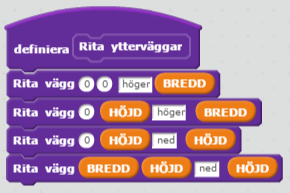
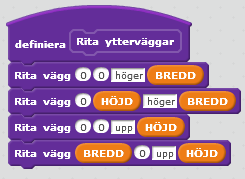
Första kompletta versionen

diff --git a/labyrintgen/README.html b/labyrintgen/README.html
@@ -7,7 +7,7 @@
 <p>En labyrintgenerator kan man ha nytta av i olika spel. Därför är det bra om vi har några få sprajtar som man kan importera med ryggsäcken.</p>
 <p>Så här kan det se ut när vi är klara:</p>
 <p><img src="00-maze-goal.png" alt="Målbild för labyrinten"></p>
-<p>Låter det krångligt? Vi tar ett steg i taget. Jag har formulerat en önskelista som kanske kan hjälpa.</p>
+<p>Låter det krångligt? Vi tar ett steg i taget. Jag har formulerat en önskelista som kanske hjälper.</p>
 <h2 id="-nskan-1-det-g-r-att-v-lja-bredd-och-h-jd-p-labyrinten">Önskan 1. Det går att välja bredd och höjd på labyrinten</h2>
 <p>Den här önskan kan vi uppfylla genom att katten frågar om bredd och höjd. Vi sparar svaren i variablerna <code>BREDD</code> och <code>HÖJD</code>.</p>
 <p>Pröva nu att göra en lösning på egen hand innan du går vidare.</p>
@@ -102,7 +102,7 @@
 <p><img src="04-ritlista-02.png" alt="Steg 1"> </p>
 <h3 id="vi-delar-igen-och-f-r-fler-rektanglar">Vi delar igen och får fler rektanglar</h3>
 <ul>
-<li>Först i ritlistan ligger nu koordinaterna (0,0) och (6,2). De är grönmarkerade ovan</li>
+<li>Först i ritlistan ligger nu koordinaterna (0,0) och (6,2). De var grönmarkerade ovan</li>
 <li>Vi gör på samma sätt som vi gjorde för den stora rektangeln</li>
 <li>Du ser ändringarna i grönt och gult i bilden</li>
 <li>Rektangeln (0, 0) till (6,2) försvann ur ritlistan</li>
@@ -117,7 +117,7 @@
 <h3 id="bara-sm-rektanglar-kvar">Bara små rektanglar kvar</h3>
 <ul>
 <li>Första rektangeln i ritlistan är (0,0) till (6, 1)</li>
-<li>Den rektangeln är för liten för att delas. Vi tar bort den ur ritlistan som nu har tre rektanglar kvar</li>
+<li>Den rektangeln har höjden 1 och kan därför inte delas på höjden. Vi tar bort den ur ritlistan som nu har tre rektanglar kvar</li>
 </ul>
 <p><img src="04-ritlista-05.png" alt="Steg 1"> </p>
 <h3 id="inga-rektanglar-kvar">Inga rektanglar kvar</h3>
@@ -134,11 +134,9 @@
 <img src="04-b4.png" alt="Kod 4">
 <img src="04-b5.png" alt="Kod 5"></p>
 <h2 id="-nskan-5-v-ggarna-delar-sig-horisontellt-eller-vertikalt-inte-bara-horisontellt-som-i-nr-4">Önskan 5. Väggarna delar sig horisontellt eller vertikalt, inte bara horisontellt som i nr 4</h2>
-<h3 id="ledtr-dar">Ledtrådar</h3>
-<ul>
-<li>De här blocken kan komma till användning: &hellip;</li>
-<li>Ändra i funktionen <em>Rita vägg med hål</em> så att den ibland delar vertikalt istället för bara horisontellt</li>
-<li>Bild som illustrerar</li>
-</ul>
+<p>Det enda som behövs är att ändra
+i funktionen <em>Rita vägg med hål</em> så att den ibland delar vertikalt istället för bara horisontellt.</p>
 <h3 id="l-sningsf-rslag">Lösningsförslag</h3>
+<p>Så här blev min version:</p>
+<p><img src="05-final.png" alt="Nya Rita vägg med hål"></p>
 </body></html>

diff --git a/labyrintgen/README.md b/labyrintgen/README.md
@@ -11,7 +11,7 @@ Så här kan det se ut när vi är klara:
 
 ![Målbild för labyrinten](00-maze-goal.png)
 
-Låter det krångligt? Vi tar ett steg i taget. Jag har formulerat en önskelista som kanske kan hjälpa.
+Låter det krångligt? Vi tar ett steg i taget. Jag har formulerat en önskelista som kanske hjälper.
 
 ## Önskan 1. Det går att välja bredd och höjd på labyrinten
 
@@ -138,7 +138,7 @@ Så här ser det ut när vi är klara:
 
 ### Vi delar igen och får fler rektanglar
 
-* Först i ritlistan ligger nu koordinaterna (0,0) och (6,2). De är grönmarkerade ovan
+* Först i ritlistan ligger nu koordinaterna (0,0) och (6,2). De var grönmarkerade ovan
 * Vi gör på samma sätt som vi gjorde för den stora rektangeln
 * Du ser ändringarna i grönt och gult i bilden
 * Rektangeln (0, 0) till (6,2) försvann ur ritlistan
@@ -153,7 +153,7 @@ Så här ser det ut när vi är klara:
 
 ### Bara små rektanglar kvar
 * Första rektangeln i ritlistan är (0,0) till (6, 1)
-* Den rektangeln är för liten för att delas. Vi tar bort den ur ritlistan som nu har tre rektanglar kvar
+* Den rektangeln har höjden 1 och kan därför inte delas på höjden. Vi tar bort den ur ritlistan som nu har tre rektanglar kvar
 
 ![Steg 1](04-ritlista-05.png) 
 
@@ -181,10 +181,11 @@ Variabeln `ritlista` håller reda på alla rektanglar där vi ska rita innerväg
 
 ## Önskan 5. Väggarna delar sig horisontellt eller vertikalt, inte bara horisontellt som i nr 4
 
-### Ledtrådar
-* De här blocken kan komma till användning: &hellip;
-* Ändra i funktionen *Rita vägg med hål* så att den ibland delar vertikalt istället för bara horisontellt
-* Bild som illustrerar
+Det enda som behövs är att ändra
+i funktionen *Rita vägg med hål* så att den ibland delar vertikalt istället för bara horisontellt.
 
 ### Lösningsförslag
 
+Så här blev min version:
+
+![Nya Rita vägg med hål](05-final.png)
